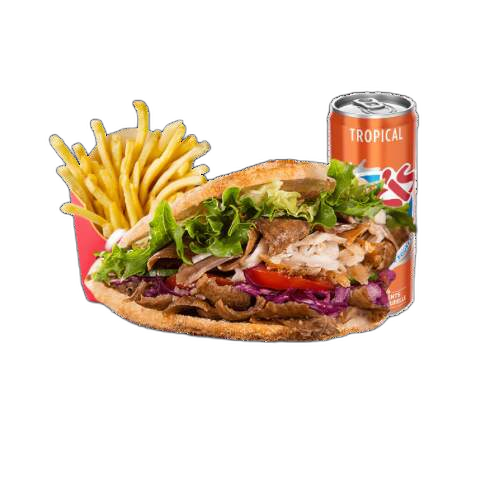
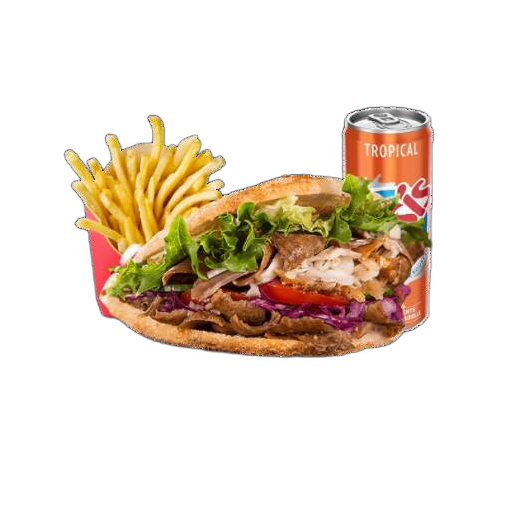
Add 15px padding to all menu sandwich images
Applied consistent padding to menu images for better display with object-fit: cover.
All menu sandwich images now have 15px transparent padding to prevent cropping.

Changed region(s): [[0.09, 0.18, 0.84, 0.69]]

diff --git a/index.html b/index.html
@@ -340,61 +340,61 @@
   <div class="product-grid">
     <div class="product-card big-only">
       <span class="price-tag">12€</span>
-      <img class="product-image" src="images/menu-american.png" alt="Menu American" loading="lazy"/>
+      <img class="product-image" src="images/menu-american.png?v=12" alt="Menu American" loading="lazy"/>
       <h3 class="product-name">Menu American</h3>
       <p class="product-desc">Sandwich + frites + boisson · XL 13€</p>
     </div>
     <div class="product-card big-only">
       <span class="price-tag">12€</span>
-      <img class="product-image" src="images/menu-escalop-poulet.png" alt="Menu Escalope de Poulet" loading="lazy"/>
+      <img class="product-image" src="images/menu-escalop-poulet.png?v=2" alt="Menu Escalope de Poulet" loading="lazy"/>
       <h3 class="product-name">Menu Escalope de Poulet</h3>
       <p class="product-desc">Sandwich + frites + boisson · XL 13€</p>
     </div>
     <div class="product-card big-only">
       <span class="price-tag">12€</span>
-      <img class="product-image" src="images/menu-kebab.png" alt="Menu Kebab" loading="lazy"/>
+      <img class="product-image" src="images/menu-kebab.png?v=2" alt="Menu Kebab" loading="lazy"/>
       <h3 class="product-name">Menu Kebab</h3>
       <p class="product-desc">Veau, Poulet ou Mixte · XL 13€</p>
     </div>
     <div class="product-card big-only">
       <span class="price-tag">17€</span>
-      <img class="product-image" src="images/menu-kebab-entier.png" alt="Menu Kebab Entier" loading="lazy"/>
+      <img class="product-image" src="images/menu-kebab-entier.png?v=2" alt="Menu Kebab Entier" loading="lazy"/>
       <h3 class="product-name">Menu Kebab Entier</h3>
       <p class="product-desc">Veau, Poulet ou Mixte · XL 18€</p>
     </div>
     <div class="product-card big-only">
       <span class="price-tag">12€</span>
-      <img class="product-image" src="images/menu-kofte-bruche.png" alt="Menu Kofte Bruche Maison" loading="lazy"/>
+      <img class="product-image" src="images/menu-kofte-bruche.png?v=2" alt="Menu Kofte Bruche Maison" loading="lazy"/>
       <h3 class="product-name">Menu Kofte Bruche Maison</h3>
       <p class="product-desc">Recette maison · XL 13€</p>
     </div>
     <div class="product-card big-only">
       <span class="price-tag">12€</span>
-      <img class="product-image" src="images/menu-kofte-maison.png" alt="Menu Kofte Maison" loading="lazy"/>
+      <img class="product-image" src="images/menu-kofte-maison.png?v=2" alt="Menu Kofte Maison" loading="lazy"/>
       <h3 class="product-name">Menu Kofte Maison</h3>
       <p class="product-desc">Sandwich + frites + boisson · XL 13€</p>
     </div>
     <div class="product-card big-only">
       <span class="price-tag">12€</span>
-      <img class="product-image" src="images/menu-lahmacun.png" alt="Menu Lahmacun Maison" loading="lazy"/>
+      <img class="product-image" src="images/menu-lahmacun.png?v=2" alt="Menu Lahmacun Maison" loading="lazy"/>
       <h3 class="product-name">Menu Lahmacun Maison</h3>
       <p class="product-desc">Sandwich + frites + boisson · XL 13€</p>
     </div>
     <div class="product-card big-only">
       <span class="price-tag">12€</span>
-      <img class="product-image" src="images/menu-merguez.png" alt="Menu Merguez" loading="lazy"/>
+      <img class="product-image" src="images/menu-merguez.png?v=2" alt="Menu Merguez" loading="lazy"/>
       <h3 class="product-name">Menu Merguez</h3>
       <p class="product-desc">Sandwich + frites + boisson · XL 13€</p>
     </div>
     <div class="product-card big-only">
       <span class="price-tag">12€</span>
-      <img class="product-image" src="images/menu-sucuk.png" alt="Menu Sucuk" loading="lazy"/>
+      <img class="product-image" src="images/menu-sucuk.png?v=2" alt="Menu Sucuk" loading="lazy"/>
       <h3 class="product-name">Menu Sucuk</h3>
       <p class="product-desc">Sandwich + frites + boisson · XL 13€</p>
     </div>
     <div class="product-card big-only">
       <span class="price-tag">12€</span>
-      <img class="product-image" src="images/menu-yufka.png" alt="Menu Yufka" loading="lazy"/>
+      <img class="product-image" src="images/menu-yufka.png?v=2" alt="Menu Yufka" loading="lazy"/>
       <h3 class="product-name">Menu Yufka</h3>
       <p class="product-desc">Sandwich + frites + boisson · XL 13€</p>
     </div>
